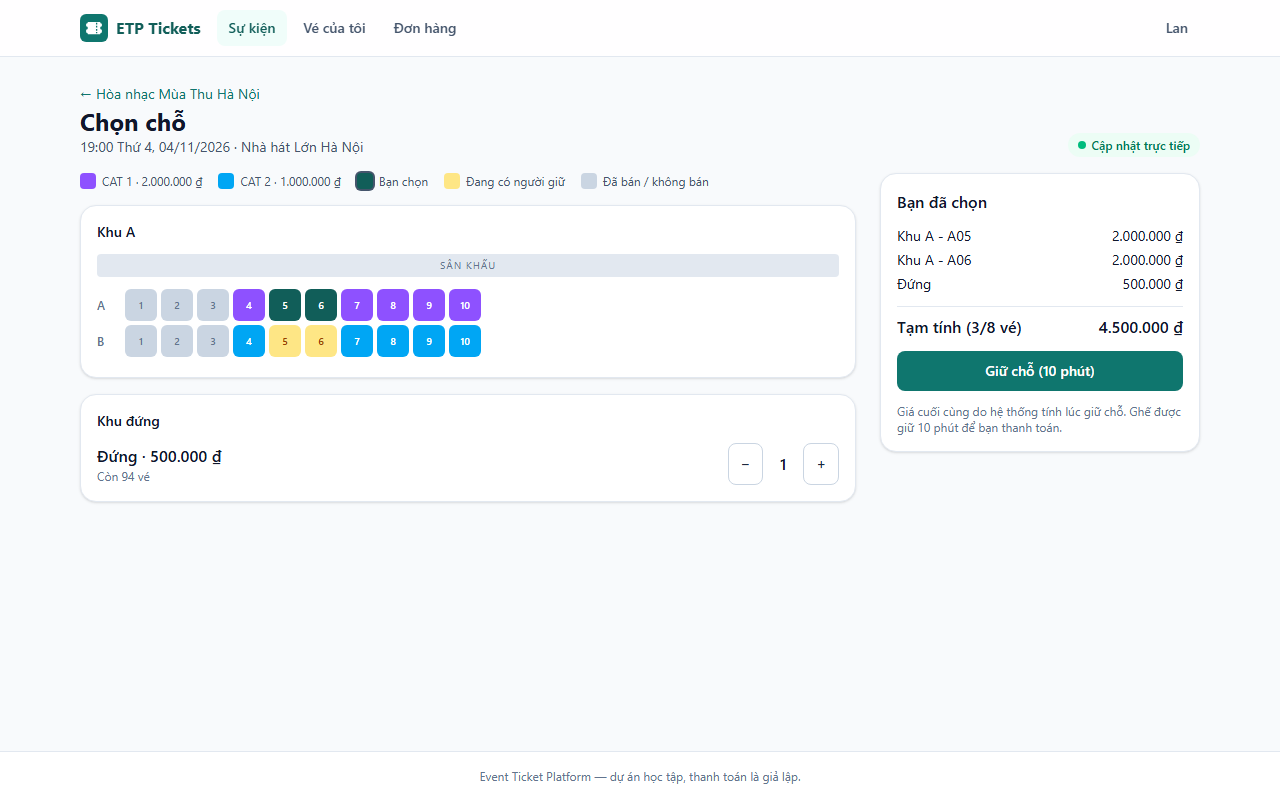
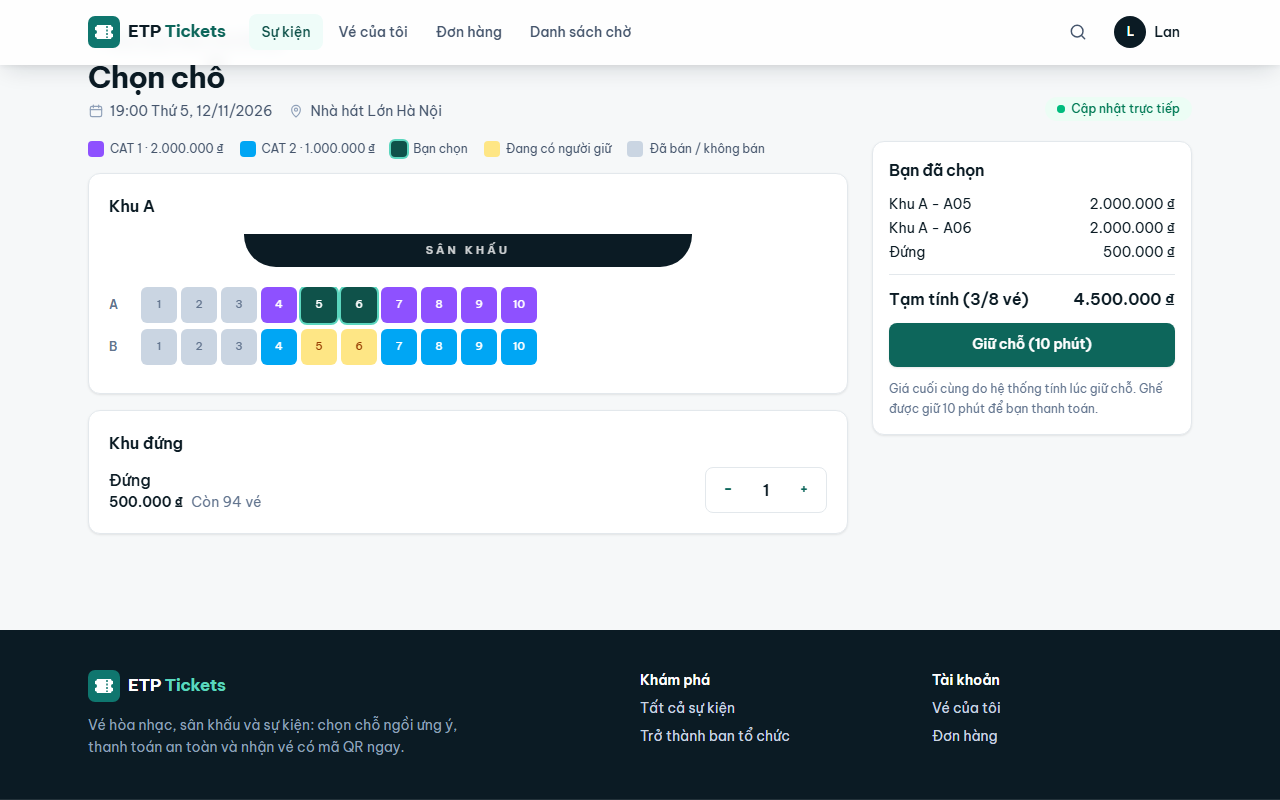
Docs: README screenshots and test guides follow the new event setup
Screenshots retaken (the screenshot run now gives the event guest artists);
README feature text and captions, the UI test guide (venue capacity, the
"Buổi diễn & vé" tab) and TC-ORG-05 describe one show and tiers per zone.

diff --git a/e2e/screenshots/readme.spec.ts b/e2e/screenshots/readme.spec.ts
@@ -48,6 +48,11 @@ test('README screenshots', async ({ browser, api, admin }) => {
       show.category,
     ])
     await sql(`UPDATE venues SET name = $2, city = $3 WHERE id = $1`, [world.venue.id, show.venue, show.city])
+    // Guest artists ("Nghệ sĩ khách mời"), as the organizer enters them.
+    await sql(`UPDATE events SET lineup = $2::jsonb WHERE id = $1`, [
+      world.event.id,
+      JSON.stringify(['Hà Anh Tuấn', 'Phương Linh', 'Dàn nhạc Giao hưởng Việt Nam'].map((artist) => ({ artist, time: null, note: null }))),
+    ])
     worlds.push(world)
   }
   const main = worlds[0]

diff --git a/docs/ui-test-guide.md b/docs/ui-test-guide.md
@@ -66,7 +66,7 @@ Mật khẩu của các tài khoản test do người test tự đặt và tự 
 | Thứ | Giá trị | Tạo ở |
 |---|---|---|
 | Danh mục | `Hòa nhạc test` | 2.1 |
-| Địa điểm | `Nhà hát Test`, TP. Hồ Chí Minh: **Khu A** ghế ngồi, hàng A–E, ghế 1–10 (50 ghế); **Khu đứng** 100 chỗ | 2.2–2.4 |
+| Địa điểm | `Nhà hát Test`, TP. Hồ Chí Minh, **sức chứa 150**: **Khu A** ghế ngồi, hàng A–E, ghế 1–10 (50 ghế); **Khu đứng** 100 chỗ | 2.2–2.4 |
 | Mã giảm giá | `TEST10`: giảm 10% | 2.5 |
 | Sự kiện 1 | `Đêm nhạc Test <ngày>`: 1 suất **30 ngày sau**, hạng `VIP` 1.500.000 (ghế) và `Vé đứng` 300.000; chính sách hủy **Tiêu chuẩn** | 3.4–3.12 |
 | Sự kiện 2 | `Đêm soát vé <ngày>`: 1 suất bắt đầu **2 giờ sau lúc tạo**, chỉ `Vé đứng` **2 vé** | 3.13–3.15 |
@@ -103,9 +103,9 @@ Hồ sơ trình duyệt "Admin": đăng nhập `admin@etp.local`. Menu "Quản t
 | Bước | Thao tác | Kết quả mong đợi | KQ |
 |---|---|---|---|
 | 2.1 · ADM-04 ★ | "Danh mục" → "Tên danh mục mới": `Hòa nhạc test` → thêm | Danh mục có trong bảng, "Số sự kiện" = 0 | |
-| 2.2 · ADM-04 ★ | "Địa điểm" → "Thêm địa điểm": "Tên địa điểm" `Nhà hát Test`, "Địa chỉ", "Thành phố" `TP. Hồ Chí Minh` → "Tạo và thêm khu / ghế" | Mở trang chi tiết địa điểm, phần "Khu và ghế" chưa có khu nào | |
+| 2.2 · ADM-04 ★ | "Địa điểm" → "Thêm địa điểm": "Tên địa điểm" `Nhà hát Test`, "Địa chỉ", "Thành phố" `TP. Hồ Chí Minh`, "Sức chứa (không bắt buộc)" `150` → "Tạo và thêm khu / ghế" | Mở trang chi tiết địa điểm, phần "Khu và ghế" chưa có khu nào; dòng "Các khu: 0 chỗ … / sức chứa 150" | |
 | 2.3 · ADM-04 ★ | Phần thêm khu: "Tên khu" `Khu A`, "Mã khu" `A`, "Loại" "Khu ngồi (có ghế)" → "Thêm". Ở khu vừa tạo: "Thêm hàng ghế" `A-E`, "Từ ghế số" `1`, "Đến ghế số" `10` → "Sinh ghế" | Khu A có 5 hàng × 10 ghế = 50 ghế | |
-| 2.4 · ADM-04 ★ | Thêm khu: "Tên khu" `Khu đứng`, "Mã khu" `GA`, "Loại" "Khu đứng", "Sức chứa" `100` → "Thêm" | Có khu đứng 100 chỗ | |
+| 2.4 · ADM-04 ★ | Thêm khu: "Tên khu" `Khu đứng`, "Mã khu" `GA`, "Loại" "Khu đứng", "Sức chứa" `100` → "Thêm". Thử thêm một khu đứng nữa `10` chỗ | Có khu đứng 100 chỗ; "Các khu: 150 chỗ (50 ghế + 100 đứng) / sức chứa 150 · còn thêm được 0"; khu 10 chỗ bị từ chối "Vượt sức chứa 150 của địa điểm…" | |
 | 2.5 · ADM-05 ★ | "Mã giảm giá" → "Tạo mã giảm giá": "Mã (khách nhập)" `TEST10`, "Tên", "Kiểu giảm" "Phần trăm (%)", giảm `10`, "Bắt đầu (giờ VN)" hôm nay, "Hết hạn (giờ VN)" 2 tháng sau → "Tạo mã" | Mã ở trạng thái "Đang dùng", "Đã dùng" 0 | |
 
 ### Phiên 3. Ban tổ chức tạo và đưa sự kiện lên bán
@@ -115,7 +115,7 @@ Hồ sơ trình duyệt "Admin": đăng nhập `admin@etp.local`. Menu "Quản t
 | 3.1 · ORG-01 ★ | Hồ sơ trình duyệt "Ban tổ chức": đăng ký `ten+btc@…` (như 1.1–1.2) → chân trang hoặc trang tài khoản: "Trở thành ban tổ chức" → "Tên tổ chức / công ty" → "Gửi đăng ký" | "Đơn đã gửi, đang chờ quản trị viên duyệt." | |
 | 3.2 · ORG-01 ★ | Admin: "Nhà tổ chức" → lọc "Chờ duyệt" → dòng của tổ chức vừa gửi → "Duyệt" | Trạng thái "Hoạt động" | |
 | 3.3 · ORG-01 ★ | Ban tổ chức: tải lại trang đăng ký → "Cập nhật quyền ngay" | "Đã được duyệt: bạn có thể tạo sự kiện."; đầu trang có menu "Ban tổ chức" | |
-| 3.4 · ORG-02 ★ | "Ban tổ chức" → "Tạo sự kiện": "Tên sự kiện" `Đêm nhạc Test <ngày>`, "Mô tả", chọn danh mục `Hòa nhạc test`, "Chính sách hủy đơn của khách": **Tiêu chuẩn** → "Tạo và tiếp tục" | Sang thẻ "Suất diễn & vé (0)"; sự kiện ở trạng thái nháp | |
+| 3.4 · ORG-02 ★ | "Ban tổ chức" → "Tạo sự kiện": "Tên sự kiện" `Đêm nhạc Test <ngày>`, "Mô tả", chọn danh mục `Hòa nhạc test`, "Chính sách hủy đơn của khách": **Tiêu chuẩn** → "Tạo và tiếp tục" | Sang thẻ "Buổi diễn & vé"; sự kiện ở trạng thái nháp | |
 | 3.5 · ORG-03 | Thẻ "Thông tin" → "Ảnh bìa": tải một ảnh **dọc** từ máy | Hộp thoại căn ảnh mở: kéo để dịch, thu phóng; "Hiện trọn ảnh" thì thấy cả ảnh trong khung 16:9 | |
 | 3.6 · ORG-03 | "Dùng ảnh này" → "Lưu thông tin" | Ảnh mới hiện ở ô xem trước; "Đã lưu." | |
 | 3.7 · ORG-04 | Đổi tên một file `.txt` thành `.png` rồi tải làm ảnh | Bị từ chối, báo file không phải ảnh | |

diff --git a/docs/test-scenarios.md b/docs/test-scenarios.md
@@ -171,7 +171,7 @@ Ký hiệu file test tự động:
 | TC-ORG-02 | Tạo sự kiện | Ban tổ chức | Tạo sự kiện (tên, mô tả, danh mục, ảnh) | Sự kiện nháp | P1 | E2E:organizer, BE:events |
 | TC-ORG-03 | Ảnh sự kiện: xem trước và căn chỉnh | Đang sửa sự kiện | "Tải ảnh từ máy" → kéo / thu phóng → "Hiện trọn ảnh" → "Dùng ảnh này" → "Lưu thông tin" | Thẻ xem trước giống kết quả; ảnh lưu 1600 × 900; "Căn chỉnh lại" làm được với ảnh đã tải | P2 | WEB:imageCrop, BE:uploads |
 | TC-ORG-04 | Tải file không phải ảnh | — | Đổi tên file .html thành .png rồi tải | Bị từ chối | P2 | BE:uploads |
-| TC-ORG-05 | Suất diễn, hạng vé, sơ đồ ghế | Sự kiện nháp | Thêm suất, hạng vé ngồi + vé đứng, gán hàng ghế cho hạng | Danh sách kiểm tra "sẵn sàng gửi duyệt" đủ dấu xanh | P1 | E2E:organizer, BE:inventory, WEB:readiness |
+| TC-ORG-05 | Buổi diễn, hạng vé theo khu | Sự kiện nháp | Tab "Buổi diễn & vé": lưu buổi diễn (địa điểm, ngày, giờ 24 giờ); lưu tổng số người tham dự; gán hạng cho từng khu có sẵn (khu ngồi: toàn bộ ghế; khu đứng: số vé) | Danh sách kiểm tra "sẵn sàng gửi duyệt" ở đầu trang không còn mục đỏ | P1 | E2E:organizer, BE:inventory, WEB:readiness, WEB:allocation |
 | TC-ORG-06 | Gửi duyệt → admin duyệt → mở bán | Đủ điều kiện | "Gửi duyệt"; admin "Duyệt và mở bán" | Sự kiện xuất hiện công khai, chọn chỗ được | P1 | E2E:organizer, BE:events |
 | TC-ORG-07 | Sửa khi đang bán | Sự kiện đang bán | Sửa mô tả / ảnh / chính sách hủy / hàng chờ | Lưu được, kể cả sự kiện không có danh mục; tên, giờ, danh mục bị khóa; "Có thay đổi chưa lưu" khi chưa lưu | P2 | BE:events |
 | TC-ORG-08 | Báo cáo bán hàng | Có đơn | Tab "Doanh thu" | Số vé, doanh thu, hoàn tiền, phí hủy đúng | P2 | E2E:refund-report, BE:reports, WEB:reports |
